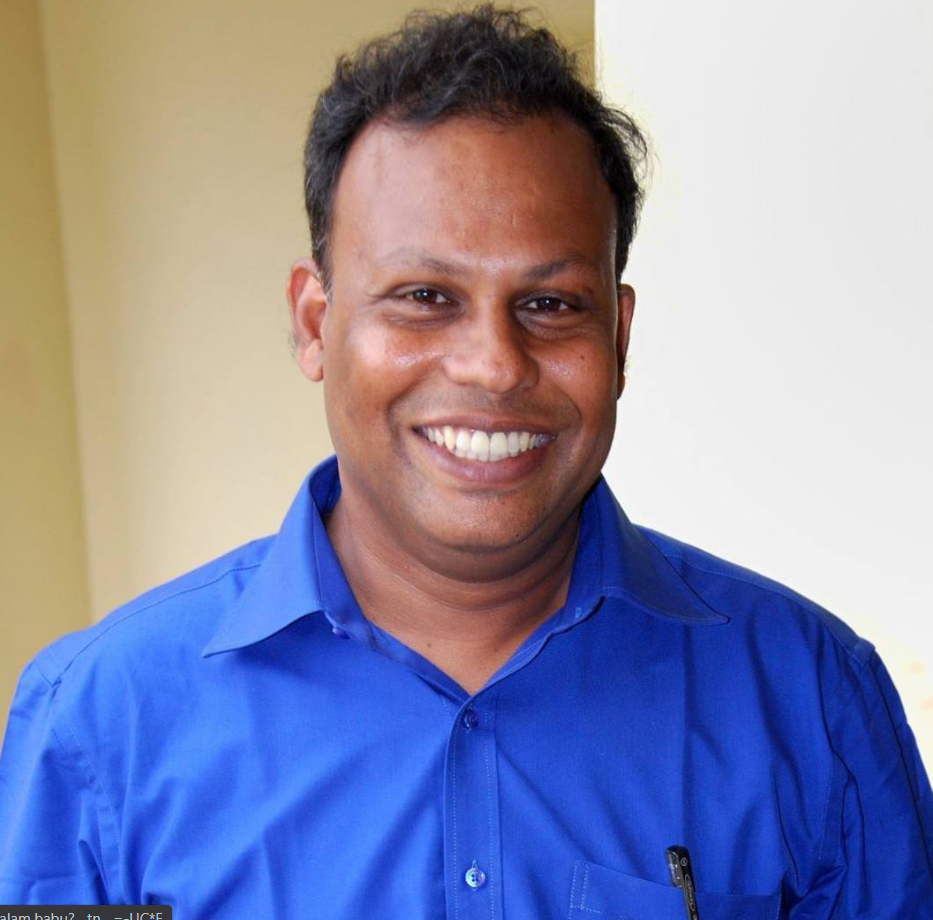
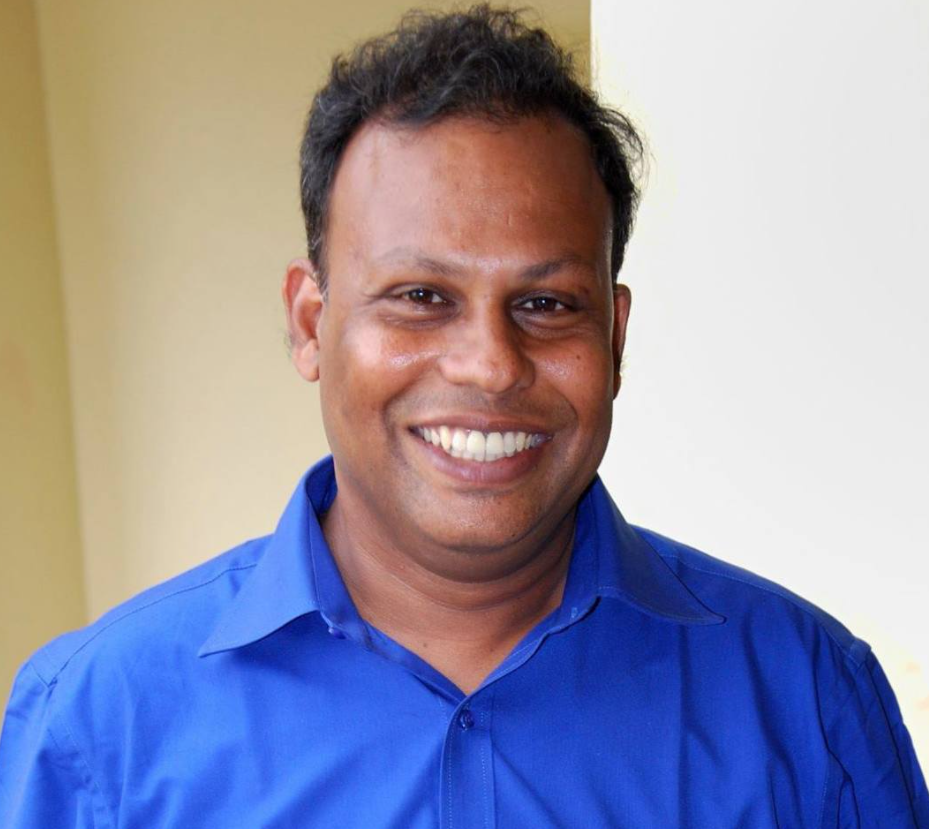
Added routes

diff --git a/components/NavBar.js b/components/NavBar.js
@@ -1,20 +1,72 @@
 import Link from 'next/Link';
 import { useState } from 'react';
+import { useRouter } from 'next/router';
 function NavBar() {
 	const [isOpen, setIsOpen] = useState(false);
 	console.log(isOpen);
+	const router = useRouter();
 
 	return (
 		<div className='relative'>
 			<div className='sm:w-full top-2 '>
 				<nav className='max-w-2xl m-auto '>
 					<ul className='hidden sm:flex flex-grow  m-auto justify-evenly text-sm lg:text-lg font-semibold '>
-						<Link href='/'>Home</Link>
-						<Link href='/research'>Research</Link>
-						<Link href='/members'>Members</Link>
-						<Link href='/publications'>Publications</Link>
-						<Link href='/links'>Links</Link>
-						<Link href='/contact'>Contact</Link>
+						<li
+							className={
+								router.pathname == '/'
+									? 'border-solid border-b-2'
+									: ''
+							}>
+							<Link href='/'>Home</Link>
+						</li>
+						<li
+							className={
+								router.pathname == '/research'
+									? 'border-solid border-b-2'
+									: ''
+							}>
+							<Link href='/research'>Research</Link>
+						</li>
+						<li
+							className={
+								router.pathname == '/members'
+									? 'border-solid border-b-2'
+									: ''
+							}>
+							<Link href='/members'>Members</Link>
+						</li>
+						<li
+							className={
+								router.pathname == '/publications'
+									? 'border-solid border-b-2'
+									: ''
+							}>
+							<Link href='/publications'>Publications</Link>
+						</li>
+						<li
+							className={
+								router.pathname == '/links'
+									? 'border-solid border-b-2'
+									: ''
+							}>
+							<Link href='/links'>Links</Link>
+						</li>
+						<li
+							className={
+								router.pathname == '/contact'
+									? 'border-solid border-b-2'
+									: ''
+							}>
+							<Link href='/contact'>Contact</Link>
+						</li>
+						<li
+							className={
+								router.pathname == '/gallery'
+									? 'border-solid border-b-2'
+									: ''
+							}>
+							<Link href='/galery'>Gallery</Link>
+						</li>
 					</ul>
 				</nav>
 			</div>
@@ -44,29 +96,67 @@ function NavBar() {
 				</div>
 				<br />
 				<ul className='sm:flex flex-grow m-auto text-center m-top-auto text-lg lg:text-xl font-light'>
-					<li className='p-2'>
+					<li
+						className={
+							router.pathname == '/'
+								? 'border-solid border-b-2 p-2'
+								: 'p-2'
+						}>
 						<Link href='/' className='inline-table'>
 							Home
 						</Link>
 					</li>
-					<li className='p-2'>
+					<li
+						className={
+							router.pathname == '/research'
+								? 'border-solid border-b-2 p-2'
+								: 'p-2'
+						}>
 						<Link href='/research' className='inline-table'>
 							Research
 						</Link>
 					</li>
-					<li className='p-2'>
+					<li
+						className={
+							router.pathname == '/members'
+								? 'border-solid border-b-2 p-2'
+								: 'p-2'
+						}>
 						<Link href='/members' className='inline-table'>
 							Members
 						</Link>
 					</li>
-					<li className='p-2'>
+					<li
+						className={
+							router.pathname == '/publications'
+								? 'border-solid border-white p-2'
+								: 'p-2'
+						}>
 						<Link href='/publications'>Publications</Link>
 					</li>
-					<li className='p-2'>
+					<li
+						className={
+							router.pathname == '/links'
+								? 'border-solid border-b-2 p-2'
+								: 'p-2'
+						}>
 						<Link href='/links'>Links</Link>
 					</li>
-					<li className='p-2'>
+					<li
+						className={
+							router.pathname == '/contact'
+								? 'border-solid border-b-2 p-2'
+								: 'p-2'
+						}>
 						<Link href='/contact'>Contact</Link>
+					</li>
+					<li
+						className={
+							router.pathname == '/gallery'
+								? 'border-solid border-b-2 p-2'
+								: 'p-2'
+						}>
+						<Link href='/gallery'>Gallery</Link>
 					</li>
 				</ul>
 			</aside>

diff --git a/components/Home.js b/components/Home.js
@@ -6,8 +6,8 @@ export default function Index() {
 			<div className='lg:w-2/5'>
 				<Image
 					src='/Babu.png'
-					width={470}
-					height={550}
+					width={550}
+					height={500}
 					layout='responsive'
 					className='rounded-none lg:rounded-lg shadow-2xl hidden lg:block'
 				/>

diff --git a/pages/index.js b/pages/index.js
@@ -1,5 +1,4 @@
 import Head from 'next/head';
-import Main from '../components/Main';
 import Footer from '../components/Footer';
 import Body from '../components/Body';
 import NavBar from '../components/NavBar';

diff --git a/pages/_app.js b/pages/_app.js
@@ -1,7 +1,7 @@
 import '../styles/globals.css';
 
 function MyApp({ Component, pageProps }) {
-	return <Component {...pageProps} className='' />;
+	return <Component {...pageProps} />;
 }
 
 export default MyApp;

diff --git a/pages/publications.js b/pages/publications.js
@@ -1,0 +1,9 @@
+function publications() {
+    return (
+        <div>
+            
+        </div>
+    )
+}
+
+export default publications

diff --git a/pages/research.js b/pages/research.js
@@ -1,0 +1,9 @@
+function research() {
+    return (
+        <div>
+            
+        </div>
+    )
+}
+
+export default research

diff --git a/pages/gallery.js b/pages/gallery.js
@@ -1,0 +1,9 @@
+function gallery() {
+    return (
+        <div>
+            
+        </div>
+    )
+}
+
+export default gallery

diff --git a/pages/members.js b/pages/members.js
@@ -1,0 +1,9 @@
+function members() {
+    return (
+        <div>
+            
+        </div>
+    )
+}
+
+export default members

diff --git a/pages/links.js b/pages/links.js
@@ -1,0 +1,9 @@
+function links() {
+    return (
+        <div>
+            
+        </div>
+    )
+}
+
+export default links
